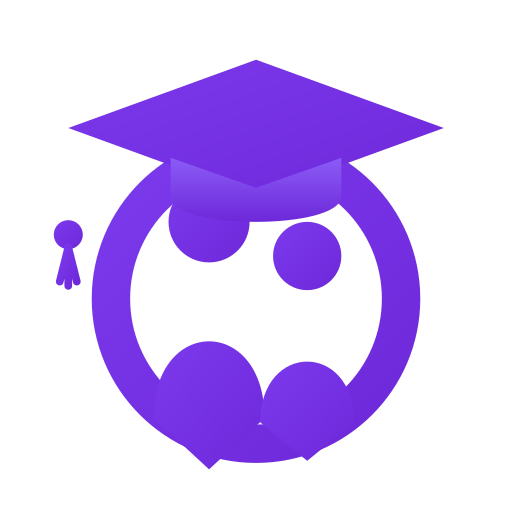
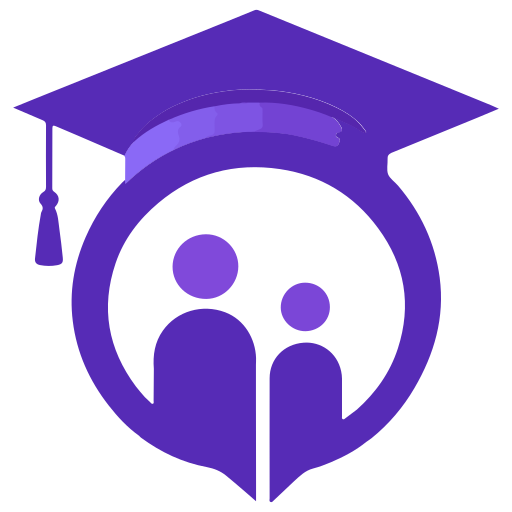
الشعار الأصلي بدل النسخة المرسومة يدوياً
ملفّان: `logo.svg` الأيقونة وحدها (الشريط العلوي والتذييل والأيقونة
المفضّلة) و`logo-full.svg` بالكلمة (صفحة الدخول وحدها، فلا اسم مكتوب
حولها). الأيقونة بلا كلمة عمداً: الاسم مكتوبٌ بجوارها في الموضعين،
فالشعار الكامل هناك يطبع «حصة» مرّتين.

- الملفّان صادران عن Illustrator بإطار 406×469 والرسم يسبح داخله، وعند
  ٤٠ بكسل في الشريط تصير العلامة لطخة. فأُعيد ضبط `viewBox` لكلٍّ منهما
  على حدود الرسم الفعلية — مقيسةً بـ`getBBox()` في متصفّح لا بالعين —
  وأُربّع إطار الأيقونة لتخرج منه الصور بلا تشويه.
- الصور الخمس (`icon-192/512`، `icon-maskable-*`، `apple-touch-icon`)
  مولَّدة من الـSVG نفسه بـsharp بكثافة ٦٠٠.
- القابلة للقصّ داخل ٧٦٪ من اللوحة على أبيض، لأن كروم أندرويد يقصّها
  دائرةً وبعض المشغّلات تملأ الشفاف أسودَ. وأيقونة آيفون مسطّحة على
  أبيض للسبب نفسه: iOS يتجاهل قناة الشفافية.
- حُذف رمز 🎓/👩🏫 من بطاقة الدخول: الشعار فوقه والعنوان تحته يقولان
  ما كان يقوله.

Claude-Session: https://claude.ai/code/session_013rrZD7k6HxLtHBo6yZ7sz5

diff --git a/app/login/page.tsx b/app/login/page.tsx
@@ -69,9 +69,10 @@ function LoginCard() {
   return (
     <main className="container container-narrow">
       <div className="login-card">
-        <span className="login-emoji" aria-hidden="true">
-          {isTeacher ? "👩🏫" : "🎓"}
-        </span>
+        {/* الشعار الكامل بالكلمة — هنا وحده، فبقية الصفحات تحمل الأيقونة
+            بجوار الاسم المكتوب فلا يتكرّر */}
+        {/* eslint-disable-next-line @next/next/no-img-element */}
+        <img src="/logo-full.svg" alt="منصة حصة" className="login-logo" width={132} height={148} />
         <h1 className="login-title">
           {isTeacher ? "دخول المعلّمين" : "دخول الطلاب"}
         </h1>

diff --git a/app/layout.tsx b/app/layout.tsx
@@ -59,7 +59,8 @@ export default function RootLayout({
         <header className="navbar">
           <div className="navbar-inner">
             <Link href="/" className="navbar-brand">
-              {/* الشعار SVG — استبدله بملفك الأصلي في public/logo.svg */}
+              {/* الأيقونة وحدها: الاسم مكتوبٌ بجوارها، والشعار الكامل
+                  (بالكلمة) في `logo-full.svg` لصفحة الدخول */}
               {/* eslint-disable-next-line @next/next/no-img-element */}
               <img src="/logo.svg" alt="" className="navbar-logo" width={40} height={40} />
               منصة حصة

diff --git a/app/globals.css b/app/globals.css
@@ -2329,10 +2329,6 @@ input[type="radio"]:focus-visible {
 
 /* ===== صفحة الدخول ===== */
 
-.login-emoji {
-  font-size: 2.6rem;
-}
-
 .login-divider {
   display: flex;
   align-items: center;
@@ -7525,6 +7521,13 @@ details[open] > summary.help-q::after {
   min-height: 0;
   accent-color: var(--primary);
   cursor: pointer;
+}
+
+.login-logo {
+  display: block;
+  width: 96px;
+  height: auto;
+  margin: 0 auto 4px;
 }
 
 /* --- جرس الإشعارات --- */

diff --git a/CLAUDE.md b/CLAUDE.md
@@ -417,7 +417,19 @@ Both roles sign in through `/login`; `?role=teacher` only switches the copy and 
 - `status` is `draft` | `published`; public queries filter `status = 'published'`, so drafts never reach students.
 - `VideoPlayer` embeds YouTube links (`youtube-nocookie`, watch/youtu.be/embed/shorts forms) and falls back to a `<video>` element for direct MP4 URLs.
 
-Brand: `public/logo.svg` is a hand-built SVG reconstruction of the platform logo (mortarboard + ring + two figures), used in the navbar, footer, and as favicon/OG icon. `metadataBase` is `https://hissa.sbs` (the live custom domain). Contact email placeholder in the legal pages is `support@hissa.sbs`.
+**Brand.** The owner's own artwork, in two files — the hand-drawn reconstruction that stood in for it is gone:
+
+- `public/logo.svg` — the **icon alone** (mortarboard + ring + two figures). Navbar, footer, favicon. It carries no word because the name is written beside it in both places; the wordmark there would print «حصة» twice.
+- `public/logo-full.svg` — icon **plus the word حصة**, used on `/login`, which has no other branding around it.
+
+Both were exported by Illustrator at `viewBox="0 0 406 469"` with the art floating inside it. Rendered at 40px in the navbar that padding shrinks the mark to a smudge, so each file's viewBox is **retightened to the art's real bounding box** (measured with `getBBox()` in a browser, not by eye), and the icon's is squared so the PNGs derive from it without distortion.
+
+The five PNGs (`icon-192/512`, `icon-maskable-192/512`, `apple-touch-icon`) are generated from that same SVG with `sharp` at `density: 600` — regenerate them from the SVG, never by resizing an existing PNG. Two of them are not plain resizes:
+
+- **Maskable** icons must survive Android's circle crop, so the art is inset to ~76% of the canvas and sits on white. A transparent maskable icon is filled with black by some launchers.
+- **apple-touch-icon** is flattened onto white for the same reason: iOS ignores the alpha channel and composites the home-screen icon on black.
+
+`metadataBase` is `https://hissa.sbs` (the live custom domain). Contact email placeholder in the legal pages is `support@hissa.sbs`.
 
 **Sign-in is Google-only.** The email magic link was removed deliberately: its links kept opening in a different browser than the one that requested them (a mail app's in-app webview, or the default browser when the request came from the installed PWA), and PKCE stores `code_verifier` in a cookie belonging to the *requesting* browser — so those opens failed with "PKCE code verifier not found in storage". Google OAuth completes the whole round trip in one browser, so that failure mode is gone along with the `/auth/confirm` route and the `token_hash` branch of `/auth/callback`.
 
